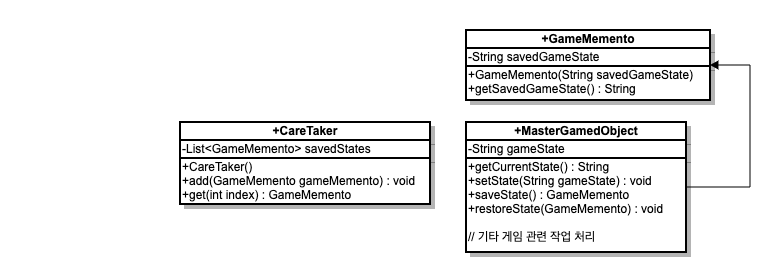
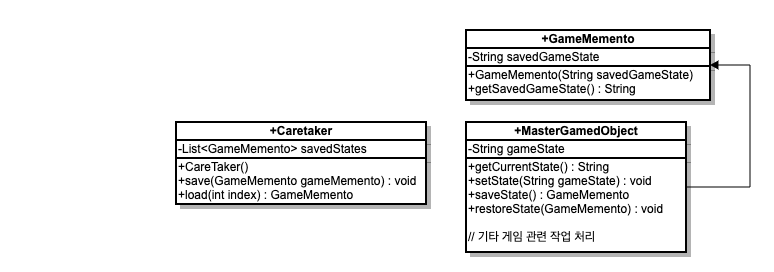
이제 자자

Changed region(s): [[0.2171, 0.4412, 0.5891, 0.7647], [0.3411, 0.4412, 0.4341, 0.5]]

diff --git a/summary/week14_flyweight_memento.md b/summary/week14_flyweight_memento.md
@@ -167,9 +167,99 @@ public class Client {
 #### 클래스 다이어그램
 ![class diagram](https://github.com/ohbokdong/DesignPatternStudy/blob/master/summary/img/week14/rlawjddbs/memento.png)
   
-Memento 패턴은 3 개의 액터 클래스를 사용한다. Memento 클래스에는 복원 할 객체의 상태가 포함됩니다. Originator는 Memento 객체와 Memento 객체 상태를 복원하는 Caretaker 객체에 상태를 만들고 저장합니다.
+메멘토 패턴은 3개의 액터 클래스를 사용한다.  
+1. Originator : 실제 상태를 가진 객체. Caretaker(클라이언트)의 요청(save)에 따라 자신의 상태를 저장한 Memento 객체를 생성한 후 Caretaker에게 반환한다. 또한 Caretaker에게 자신의 상태를 복원 요청(restore)하여 Caretaker가 저장해둔 Memento 객체를 받기도 한다. MasterGameObject 클래스에 해당.
+2. Caretaker : Originator의 내부 상태를 저장(save)하고 복구(load)하기 위해 Originator의 상태를 저장한 Memento를 관리하는 클라이언트 클래스.
+3. Memento : Originator의 상태를 저장하는 객체. Caretaker가 변경할 수 없거나 변경해서는 안 되기 때문에 불투명 자료형이라고도 한다. 위 그림에서 GameMemento 클래스에 해당.
   
-####  코드
+#### Memento 클래스
+```java
+public class GameMemento {
+    private String savedGameState;
+    
+    public GameMemento(String savedGameState) {
+        this.savedGameState = savedGameState;
+    }
+    
+    public String getSavedGameState() {
+        return savedGameState;
+    }
+}
+```
+#### Originator 클래스
+```java
+public class MasterGameObject {
+    private String gameState;
+
+    public String getCurrentState() {
+        return gameState;
+    }
+
+    public void setState(String gameState) {
+        this.gameState = gameState;
+    }
+    
+    public GameMemento saveToMemento() {
+        return new GameMemento(gameState);
+    }
+    
+    public void restoreByMemento(GameMemento gameMemento) {
+        gameState = gameMemento.getSavedGameState();
+    }
+}
+```
+#### Caretaker 클래스
+```java
+public class Caretaker {
+    private List<GameMemento> savedStates;
+    
+    public Caretaker() {
+        savedStates = new ArrayList<GameMemento>();
+    }
+    
+    public void save(GameMemento gameMemento) {
+        savedStates.add(gameMemento);
+    }
+    
+    public GameMemento load(int index) {
+        return savedStates.get(index);
+    }
+    
+    public int getLastSavedIndex() {
+        return savedStates.size() - 1;
+    }
+}
+```
+#### 테스트
+```java
+public class GameDemo {
+    public static void main(String[] args) {
+        MasterGameObject mgo = new MasterGameObject();
+        Caretaker careTaker = new Caretaker();
+        
+        // 레벨업 하면서 가끔씩 중간 세이브를 하는 상태
+        mgo.setState("레벨업 - 레벨 7");
+        mgo.setState("레벨업 - 레벨 8");
+        careTaker.save(mgo.saveToMemento());
+        
+        mgo.setState("레벨업 - 레벨 9");
+        careTaker.save(mgo.saveToMemento());
+        
+        mgo.setState("레벨업 - 레벨 10");
+        System.out.println("현재 게임 상태... " + mgo.getCurrentState());
+        
+        // 죽음
+        mgo.setState("죽음 - 레벨 0");
+        System.out.println("현재 게임 상태... " + mgo.getCurrentState());
+        
+        // 가장 마지막에 저장된 시점으로 복구
+        mgo.restoreByMemento(careTaker.load(careTaker.getLastSavedIndex()));
+        System.out.println("현재 게임 상태... " + mgo.getCurrentState());
+    }
+}
+```
+#### 테스트 결과
+![test result](https://github.com/ohbokdong/DesignPatternStudy/blob/master/summary/img/week14/rlawjddbs/result.png)
 
 
 ### 메멘토 패턴 정리
